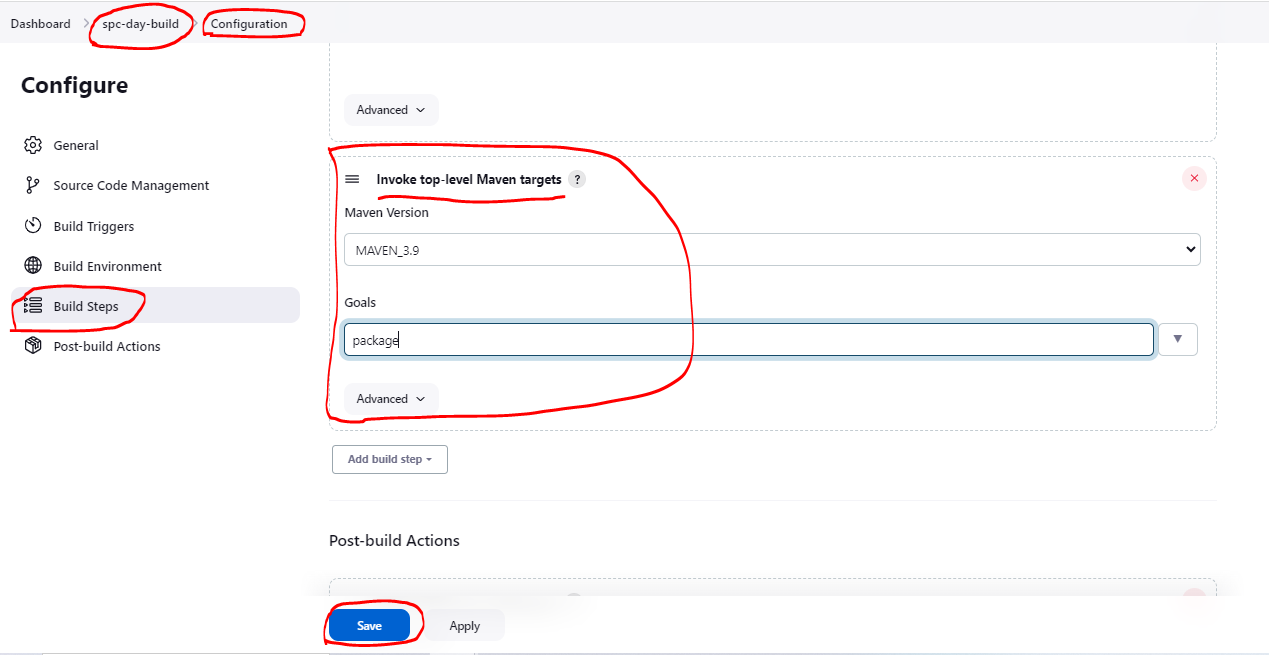
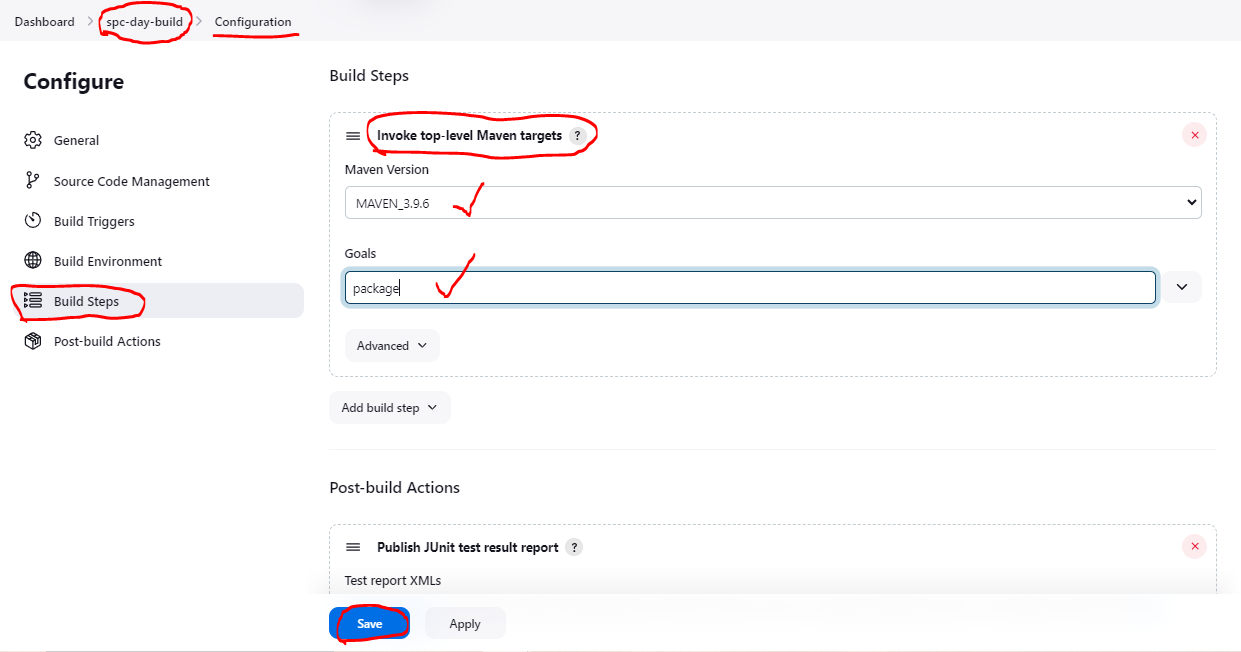
Changes updated

diff --git a/notes.md b/notes.md
@@ -471,11 +471,13 @@ sudo -i
 su jenkins
 cd /usr/share/maven (maven 3.6.3)
 ls
-cd /usr/share/maven/apache-maven-3.9.4   (maven 3.9.4)
+cd /usr/share/maven/apache-maven-3.9.6   (maven 3.9.6)
 ```
+  ![Alt text](shots/(a).PNG)
+  ![Alt text](shots/(b).PNG)
   ![Alt text](shots/49.PNG)
 
-* Now lets configure the spring-petclinic to use top level maven targets
+* Now let's configure the spring-petclinic to use top level maven targets
 
   ![Alt text](shots/50.PNG)
 
